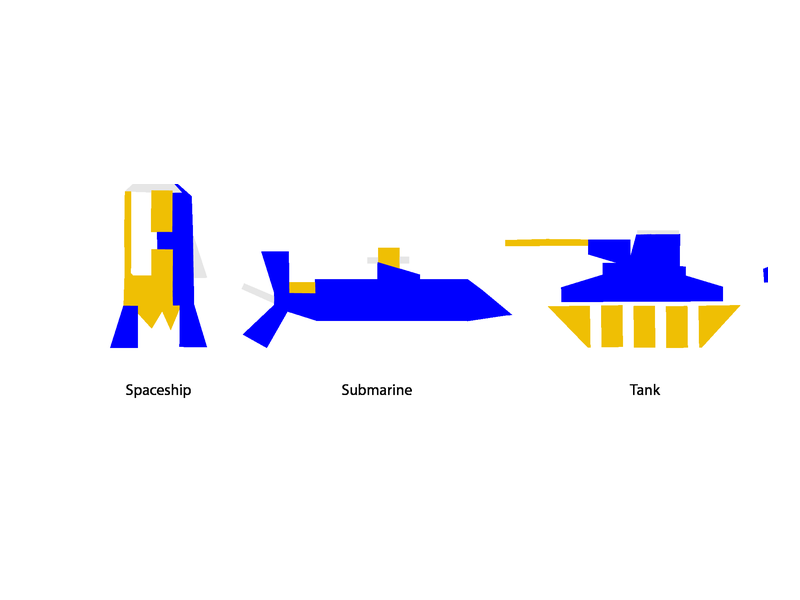
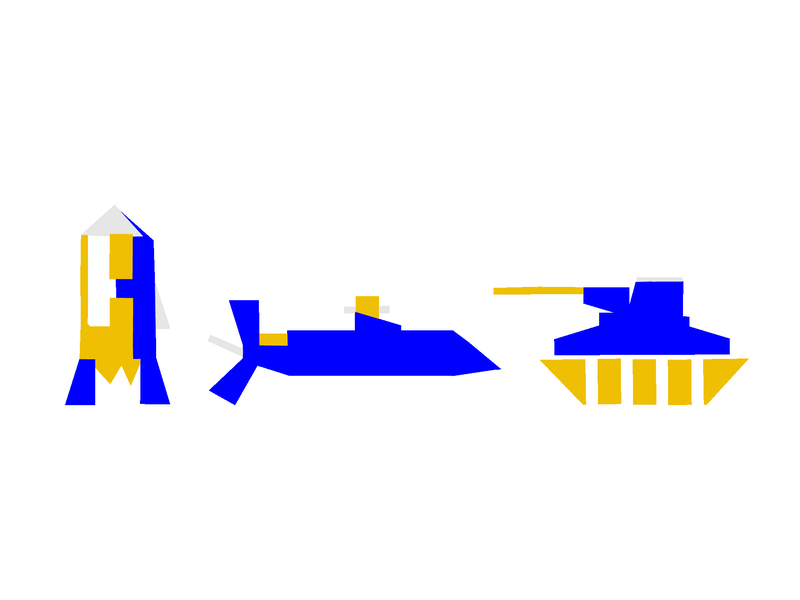
New tagline, cleaner ships tile

Changed region(s): [[0.0625, 0.3, 0.9375, 0.69], [0.9375, 0.45, 0.9688, 0.48]]

diff --git a/frontend/src/components/Home.jsx b/frontend/src/components/Home.jsx
@@ -82,7 +82,7 @@ export default function Home({ onOpenCard }) {
       <section className="kw-hero">
         <div className="kw-container kw-hero-inner">
           <h1 className="kw-name">Karlie Ward</h1>
-          <p className="kw-role">Information Systems student who thinks good design and clean code belong together</p>
+          <p className="kw-role">Information Systems student who uses tech, design and AI to make things work better</p>
         </div>
       </section>
 
